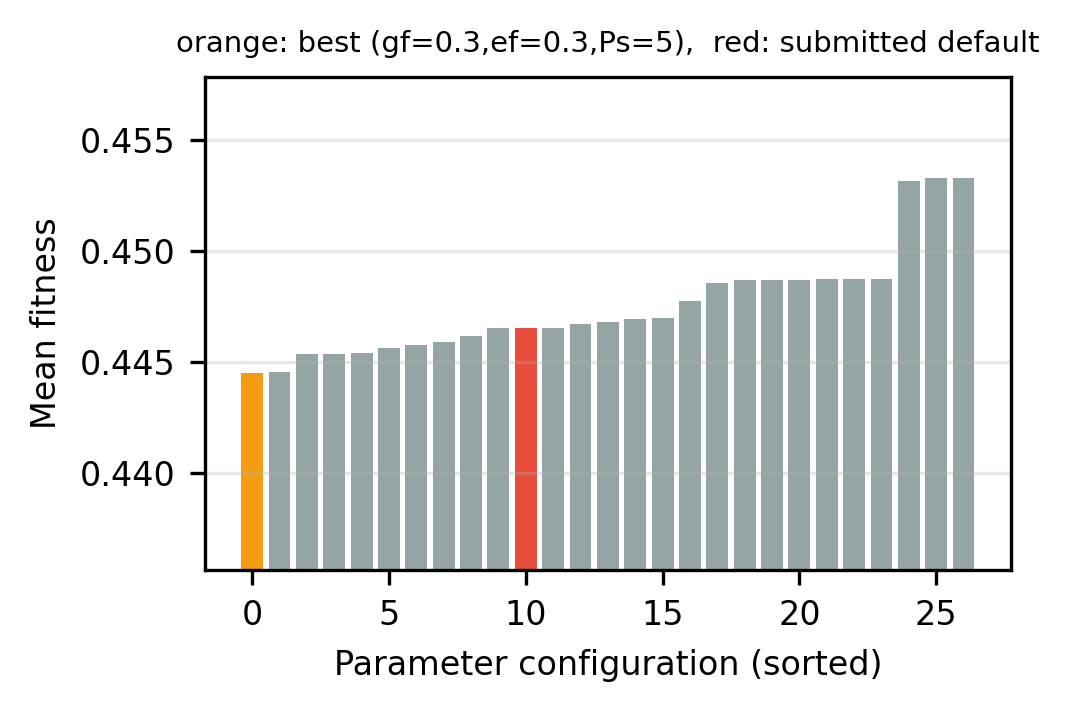
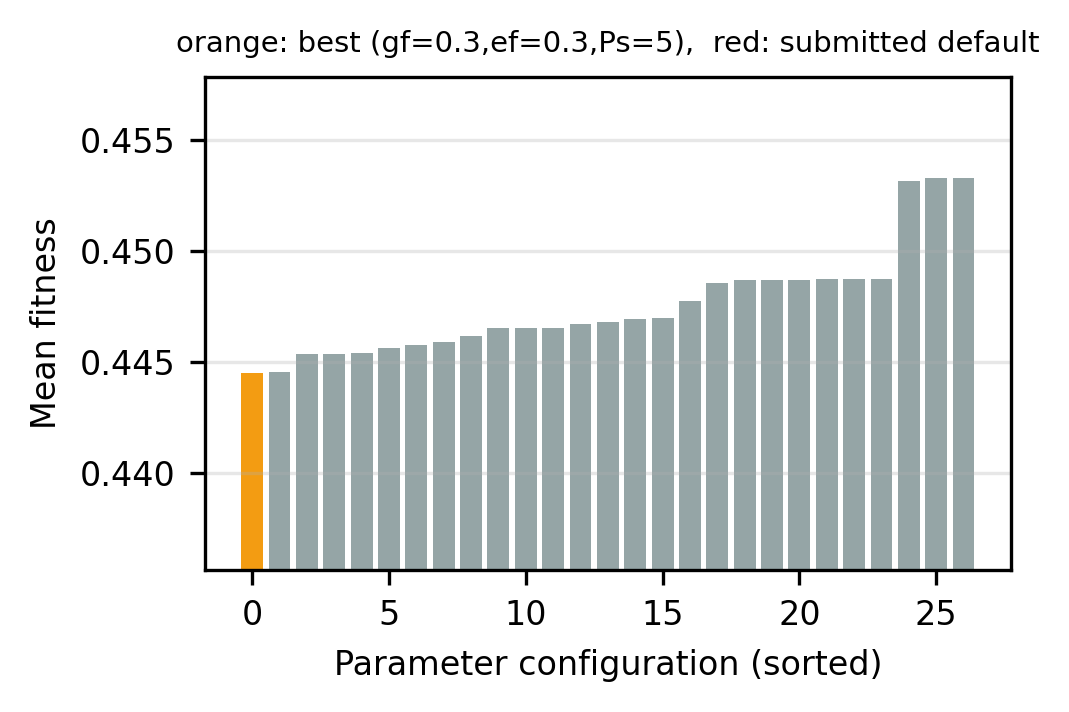
Regenerate analysis outputs with final E5 default

Changed region(s): [[0.463, 0.4635, 0.5248, 0.8034]]

diff --git a/analysis.py b/analysis.py
@@ -313,7 +313,8 @@ def main():
         say('\n=== E5: CEO parameter grid on tuning instances (mean fitness, lower is better) ===')
         G = e5.groupby('algorithm').fitness.agg(['mean', 'std']).sort_values('mean')
         say(G.round(5).to_string())
-        d = 'gf=0.2,ef=0.3,Ps=5'
+        say(f'range of mean fitness over {len(G)} configurations: {(G["mean"].max()/G["mean"].min()-1)*100:.2f}%')
+        d = 'gf=0.3,ef=0.3,Ps=5'
         if d in G.index:
             say(f'default {d}: rank {list(G.index).index(d)+1} of {len(G)}, '
                 f'gap to best {(G.loc[d,"mean"]/G["mean"].iloc[0]-1)*100:.2f}%')
